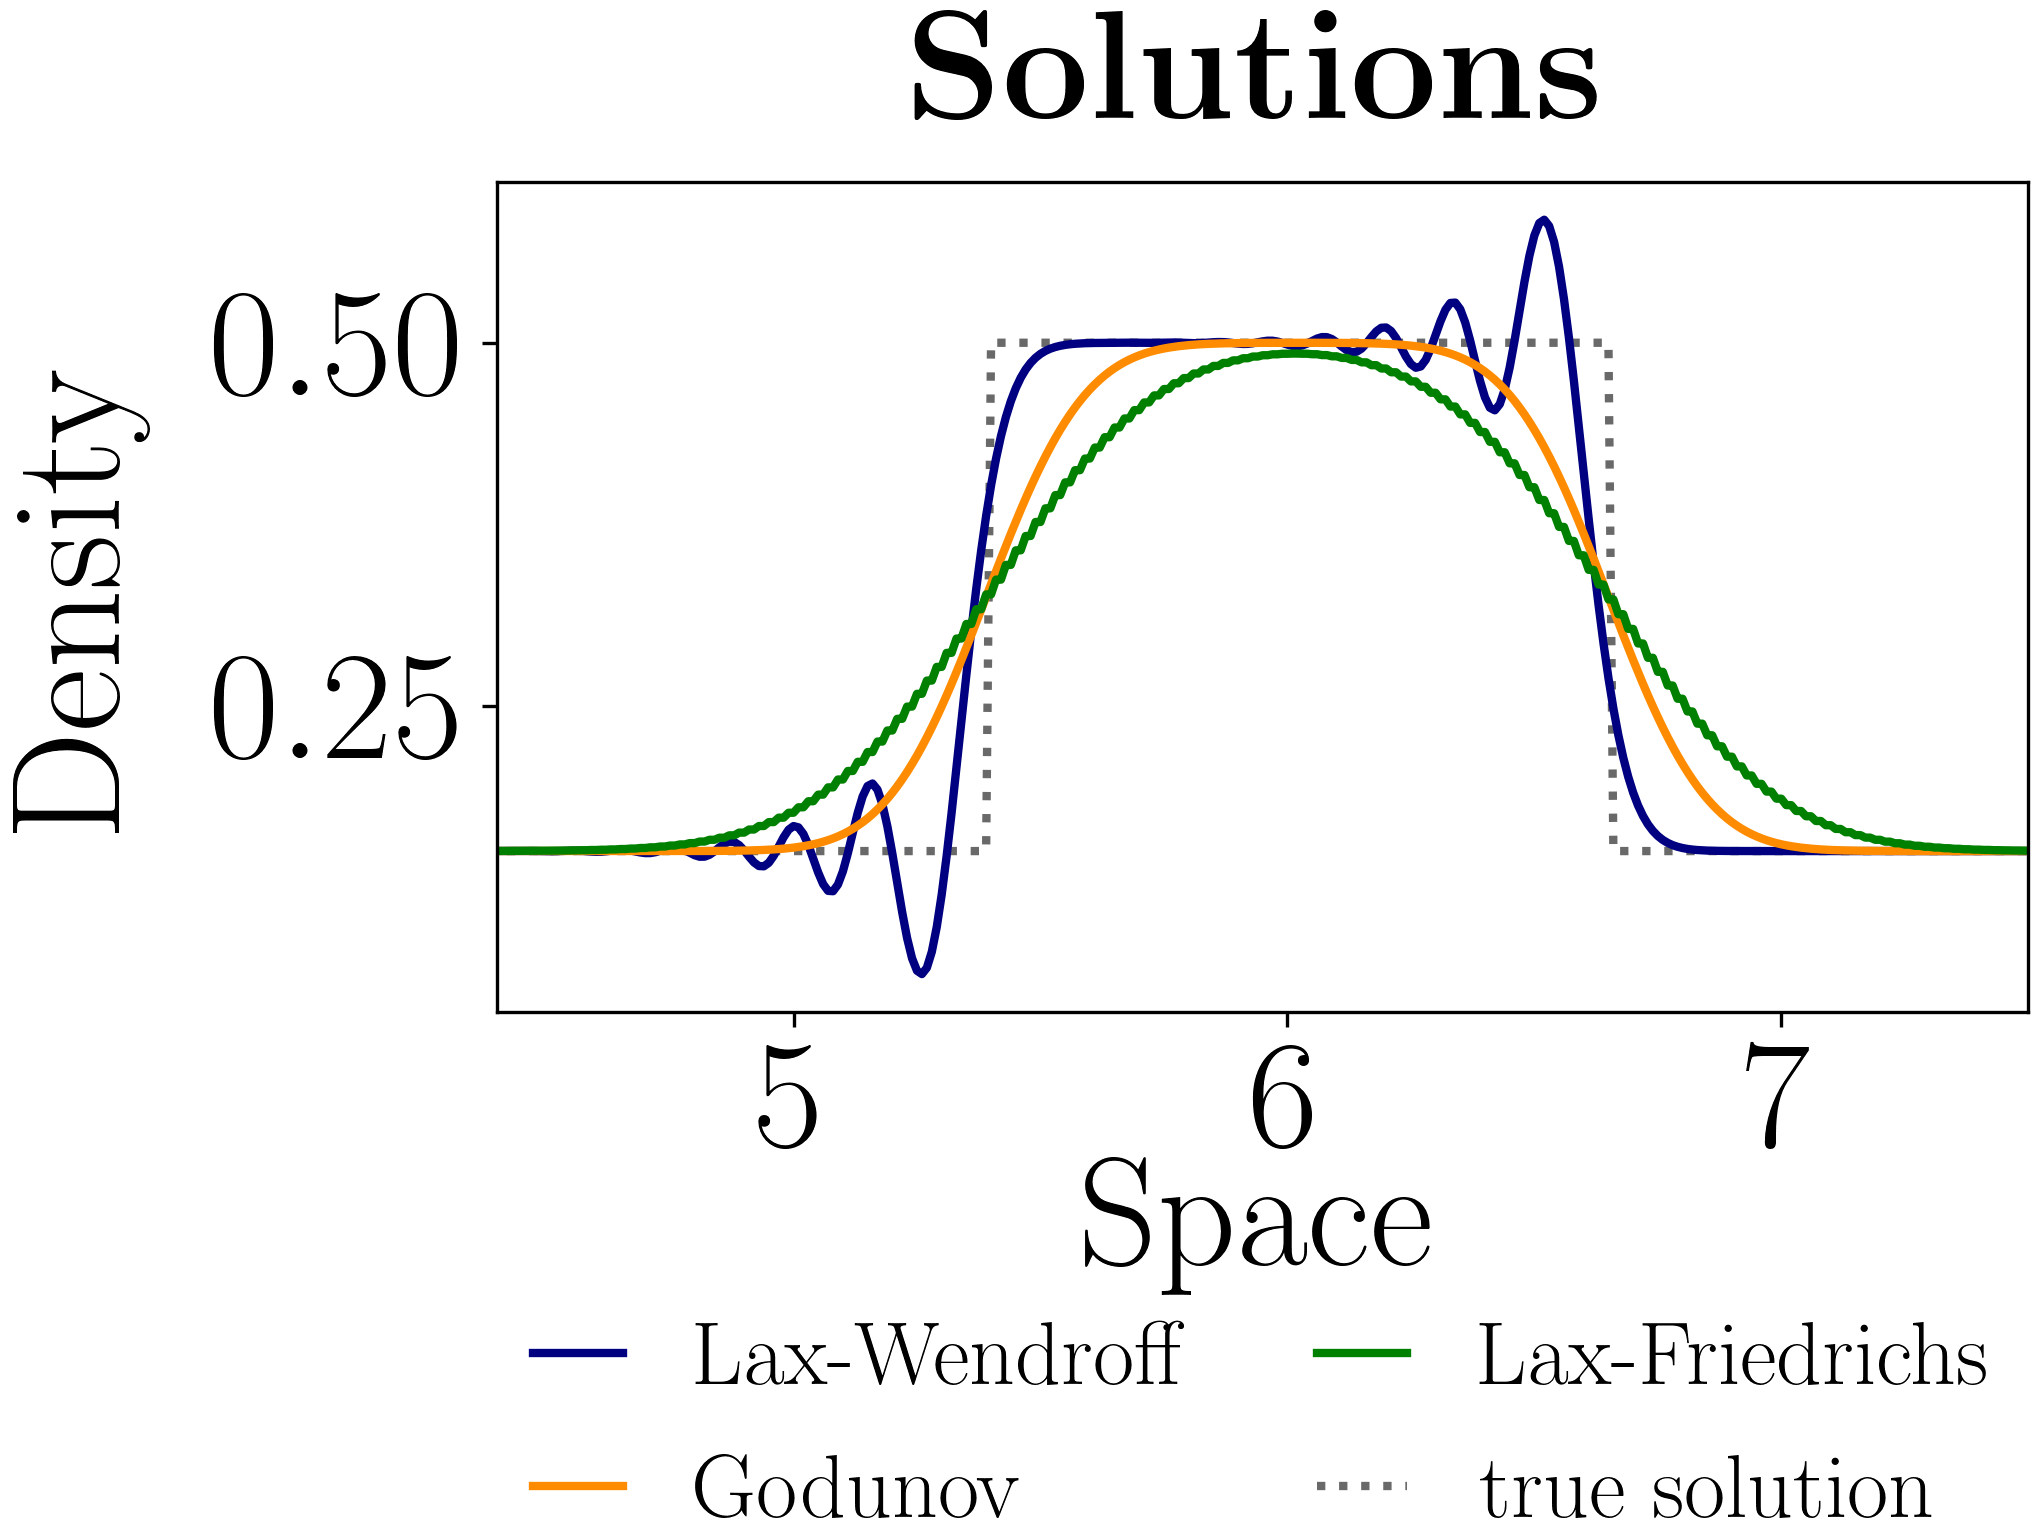
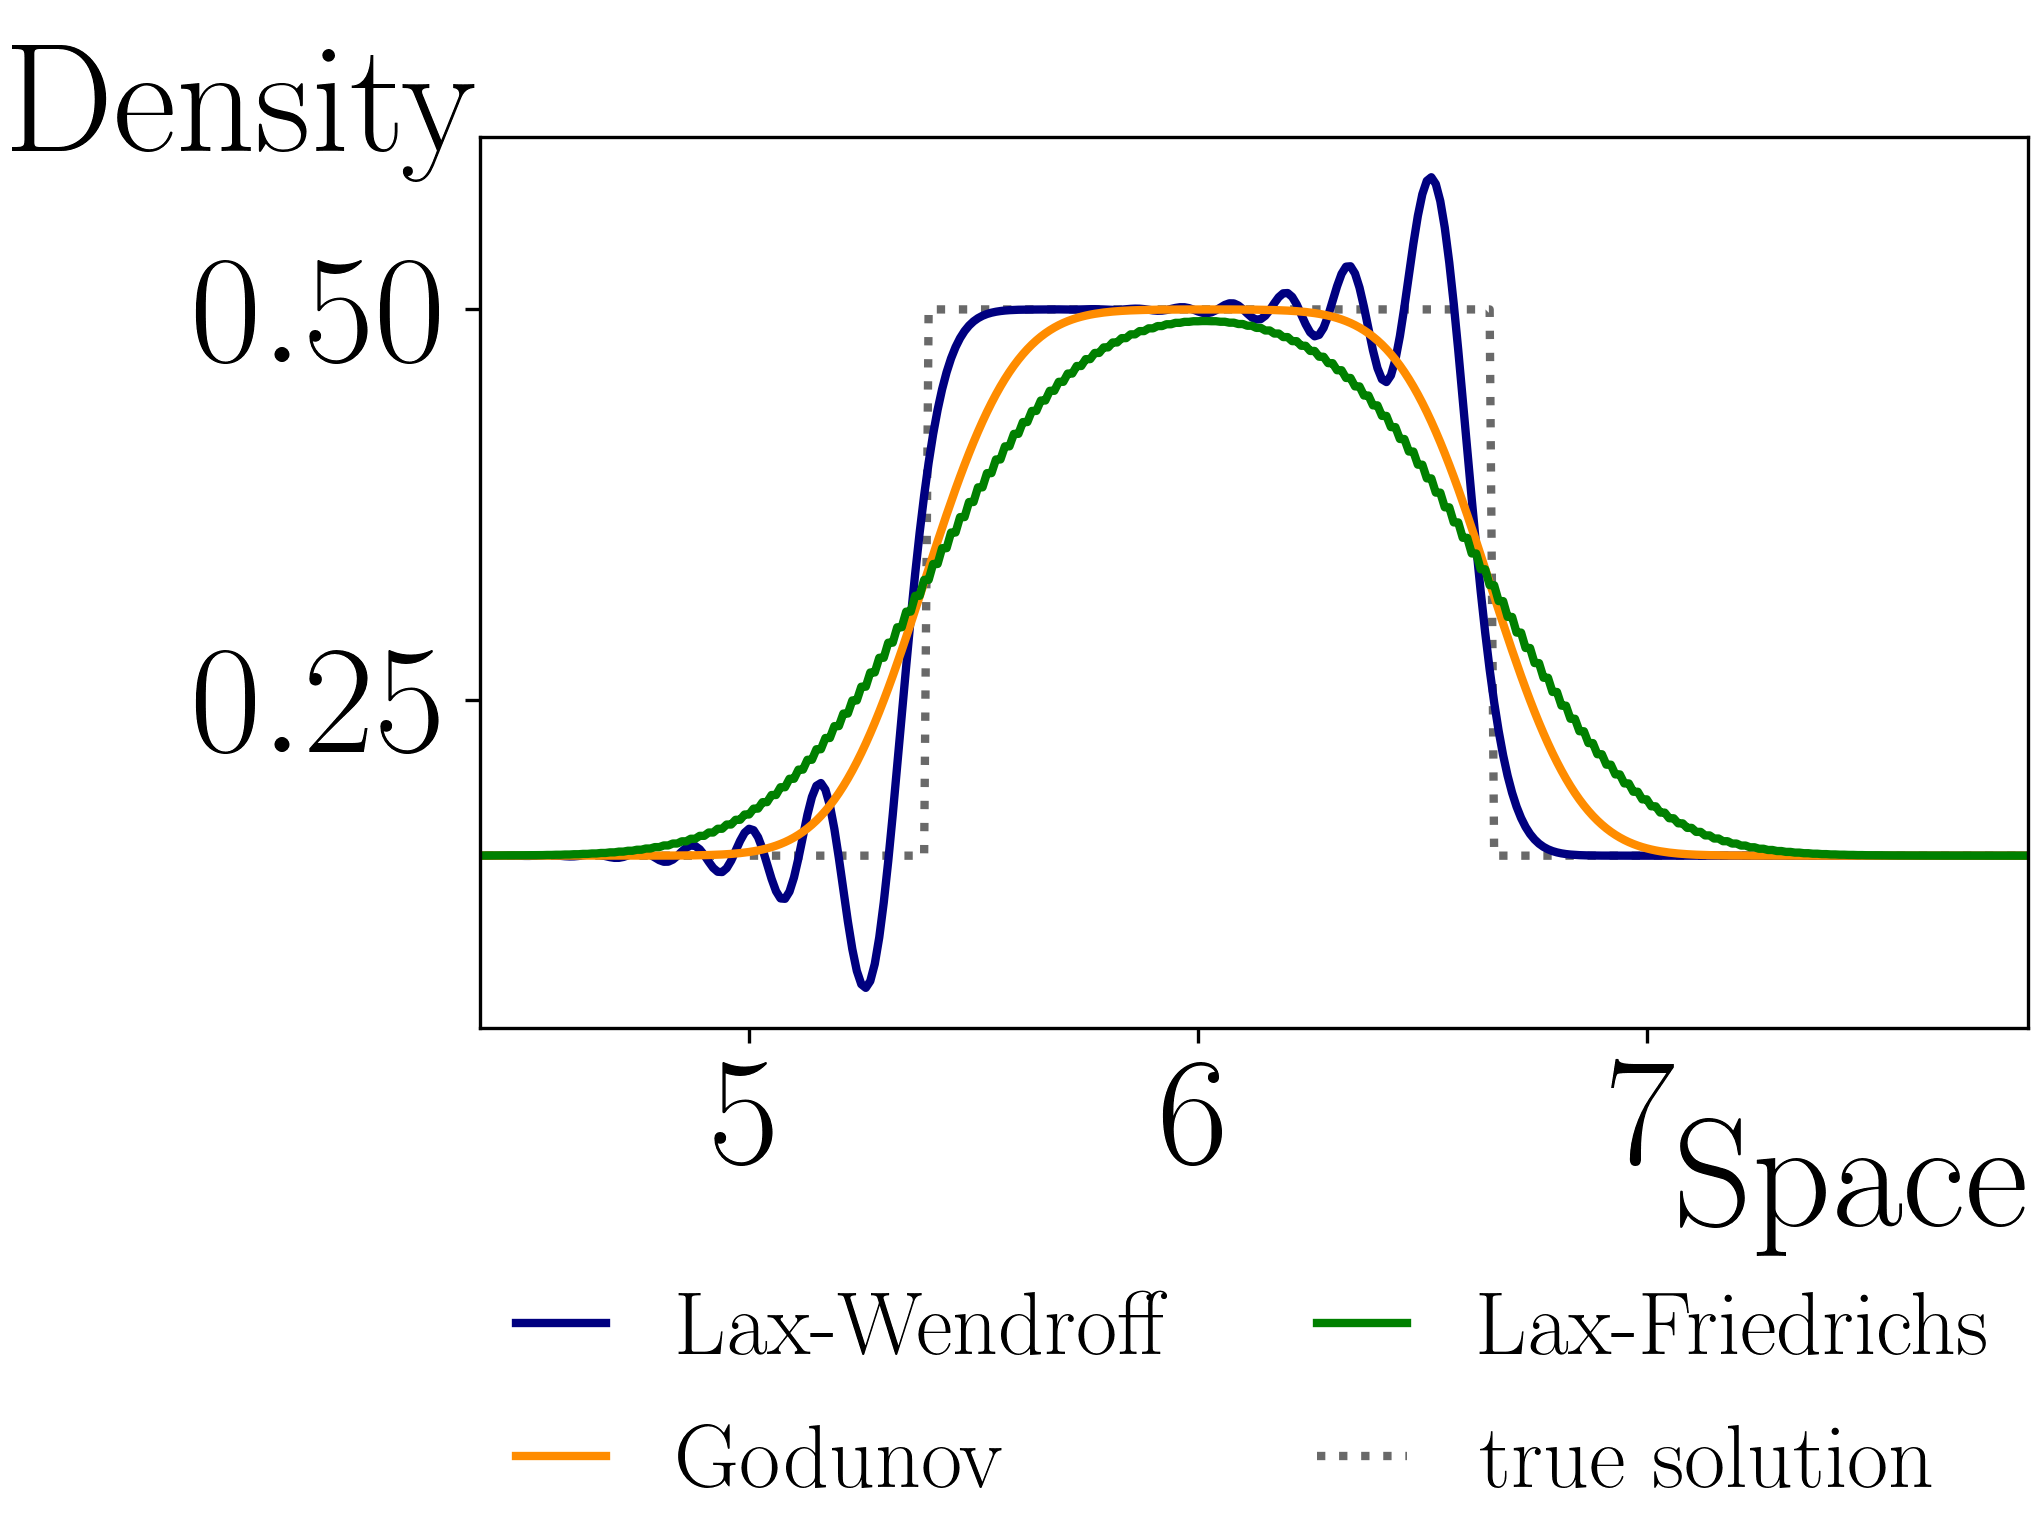
add figures

diff --git a/Poster-Latex/portrait.tex b/Poster-Latex/portrait.tex
@@ -126,7 +126,7 @@ where $k$ stepsize in time, $h$ stepsize in space and
 U_{j+\frac{1}{2}}^{n+\frac{1}{2}} =&~ \frac{1}{2} (U_j^n + U_{j+1}^n)\\
 &- \frac{k}{2h}[f(U_{j+1}^n) - f(U_j^n)].
 \end{align*}
-The step sizes are in the following considered to be controlled by $\frac{k}{h} = const$. This fact is motivated by the CFL condition of the linear case ($u_t + au_x = 0$), where we need $|a|\frac{k}{h} \leq 1$. \\
+The step sizes are in the following considered to be controlled by $\frac{k}{h} = const$. This fact is motivated by the CFL condition of the linear case ($u_t + au_x = 0$), where we need $|a|\frac{k}{h} \leq 1$. 
 The method can be seen as a concatenation of the Lax-Friderich scheme.
 %The computation of the next time step can be written as a function of the solution of the current timestep by $U^{n+1} = \mathcal{H}(U^n)$. This notation can be used to define the local truncation error of a method by
 %\begin{align*}
@@ -134,18 +134,11 @@ The method can be seen as a concatenation of the Lax-Friderich scheme.
 %\end{align*}
 %contingent on the used step size in time $k$. This error will now be considered in the linear advection equation with $a > 0$. By Taylor expansion around $u(x, t)$ and some simplifications this yields to:
 
-\vspace{0.2cm}
+\vspace{0.5cm}
 Computing the local truncation error of the Lax-Wendroff method we obtain
 \begin{align*}
 L_k(x, t) = \frac{a}{6}(a^2 k^2 - h^2)u_{xxx} + \mathcal{O}(h^3)
 \end{align*}
-
-    \end{column}
-\end{column}
-\begin{column}{0.5\textwidth - 1.5cm}
-\begin{column}{0.5\textwidth - 1.5cm}
-\vspace*{-14.5cm}
-
 As $L_k(x,t) = \mathcal{O}(h^2)$ the method is consistent and has order 2. Additional for stability the condition $|\nu| < 1$ where $\nu = a\frac{k}{h}$ is the Courant number must be fulfilled. 
 In the case of an linear advection equation the convergence of a method follows from consistency and stability by the Lax equivalence theorem. In the nonlinear case Lax and Wendroff proved that a consistent numerical method with bounded solutions always converges to a weak solution of the equation.
 The local truncation error also leads to the modified equation which is given as:
@@ -153,6 +146,14 @@ The local truncation error also leads to the modified equation which is given as
 u_t + a u_x &= \frac{a}{6} (a^2 k^2 - h^2) u_{xxx}\\
 &:= \mu u_{xxx}
 \end{align*}
+
+    \end{column}
+\end{column}
+\begin{column}{0.5\textwidth - 1.5cm}
+\begin{column}{0.5\textwidth - 1.5cm}
+\vspace*{-1.5cm}
+
+
 This is also a dispersive equation and a solution $u(x, t)$ of it can be represented in Fourier space. By isolating each wavenumber $\xi$ to apply solutions of the form $u(x,t) = e^{i(\xi x - c(\xi)t)}$ to the linear advection equation yields to the dispersion relation:
 \begin{align*}
 c(\xi) = a\xi + \mu \xi^3
@@ -171,7 +172,7 @@ In the following the approximations of the Lax-Wendroff method will be presented
     
 \end{column}
 \begin{column}{0.5\textwidth - 1.5cm}
-\vspace*{-14.5cm}
+\vspace*{-1.5cm}
 
     \vspace{1.5cm}
     

diff --git a/Python/compare_methods.py b/Python/compare_methods.py
@@ -9,11 +9,11 @@ import os
 cwd = os.getcwd()
 plt.style.use(cwd + '/poster.mplstyle')
 
-save = False
+save = True
 '~~~~~~~~~~ SELECT THE PROBLEM FUNCTIONS ~~~~~~~~~~'
-name_of_problem = 'traffic'
+#name_of_problem = 'traffic'
 #name_of_problem = 'linear'
-#name_of_problem = 'Burger'
+name_of_problem = 'Burger'
 #name_of_problem = 'Buckley-Leverett'
 
 
@@ -52,7 +52,7 @@ true_sol = step.get_true_linear_sol(U_0, datapoint, h, k, c)[0]
 '------------------ PLOT SOLUTION ---------------------------------------------------------------------------------------------'
 'PLOT SOLUTION'
 col_span = 1
-save = True
+save = False
 if col_span == 2:
     lw = 3
     matplotlib.rcParams['figure.figsize'] = (14.78636, 11.089770003)
@@ -73,16 +73,20 @@ if name_of_problem == 'traffic':
 
 elif name_of_problem == 'linear':
     plt.plot(x_steplist, true_sol, ':', label='\\rmfamily true solution', linewidth=lw, color='dimgray', zorder=0)
-    plt.xlim([4.4, 7.5])
+    #plt.xlim([4.4, 7.5])
+    plt.xlim([4.4, 7.85])
 
 if name_of_problem == 'Burger':
     plt.xlim([1, 5.2])
 
-plt.title('\\rmfamily\\bfseries Solutions', pad=15)
+#plt.title('\\rmfamily\\bfseries Solutions', pad=15)
+plt.title('\\rmfamily\\bfseries ', pad=15,  fontsize=21.6)
 plt.xlabel('\\rmfamily Space')
-plt.gca().xaxis.set_label_coords(0.5, -0.175)
-plt.ylabel('\\rmfamily Density')
-plt.legend(bbox_to_anchor=(0., -0.425, 1., .102), loc='upper left',
+#plt.gca().xaxis.set_label_coords(0.5, -0.175)
+plt.gca().xaxis.set_label_coords(0.89, -0.1)
+plt.ylabel('\\rmfamily Density', rotation=0)
+plt.gca().yaxis.set_label_coords(-0.15, 0.95)
+plt.legend(bbox_to_anchor=(0., -0.35, 1., .102), loc='upper left',
             ncol=2, mode="expand", borderaxespad=0., handlelength=1., fontsize=21.6)
 
 if save:

diff --git a/Python/convergence_test.py b/Python/convergence_test.py
@@ -28,7 +28,7 @@ name_of_init = 'police problem'
 c = 1
 
 T = 20
-X = 20
+X = 40
 h = 0.01
 
 '------------------ SOLVE THE PDE  -----------------------------------------------------------------------------------------'
@@ -98,13 +98,15 @@ plt.plot(time_list, error_laxF, label='\\rmfamily Lax Friedrich', color='green',
 plt.plot(time_list, error_Godu, label='\\rmfamily Godunov', color='darkorange', linewidth=lw)
 plt.plot(time_list, error_laxW_l, label='\\rmfamily Lax Wendroff', color='navy', linewidth=lw)
 
-plt.title('\\rmfamily\\bfseries Error over time', pad=15)
+#plt.title('\\rmfamily\\bfseries Error over time', pad=15)
+plt.title('\\rmfamily\\bfseries ', pad=15, fontsize=21.6)
 plt.xlabel('\\rmfamily t')
 plt.gca().xaxis.set_label_coords(1.05, -0.1)
 plt.ylabel('\\rmfamily Error', rotation=0)
-plt.gca().yaxis.set_label_coords(-0.15, 0.9)
+plt.gca().yaxis.set_label_coords(-0.15, 0.95)
 plt.legend(bbox_to_anchor=(0., -0.25, 1., .102), loc='upper left',
             ncol=2, mode="expand", borderaxespad=0., handlelength=1., fontsize=21.6)
+plt.tight_layout()
 
 if save:
     plt.savefig('figures/error_over_time.png', dpi=300)
